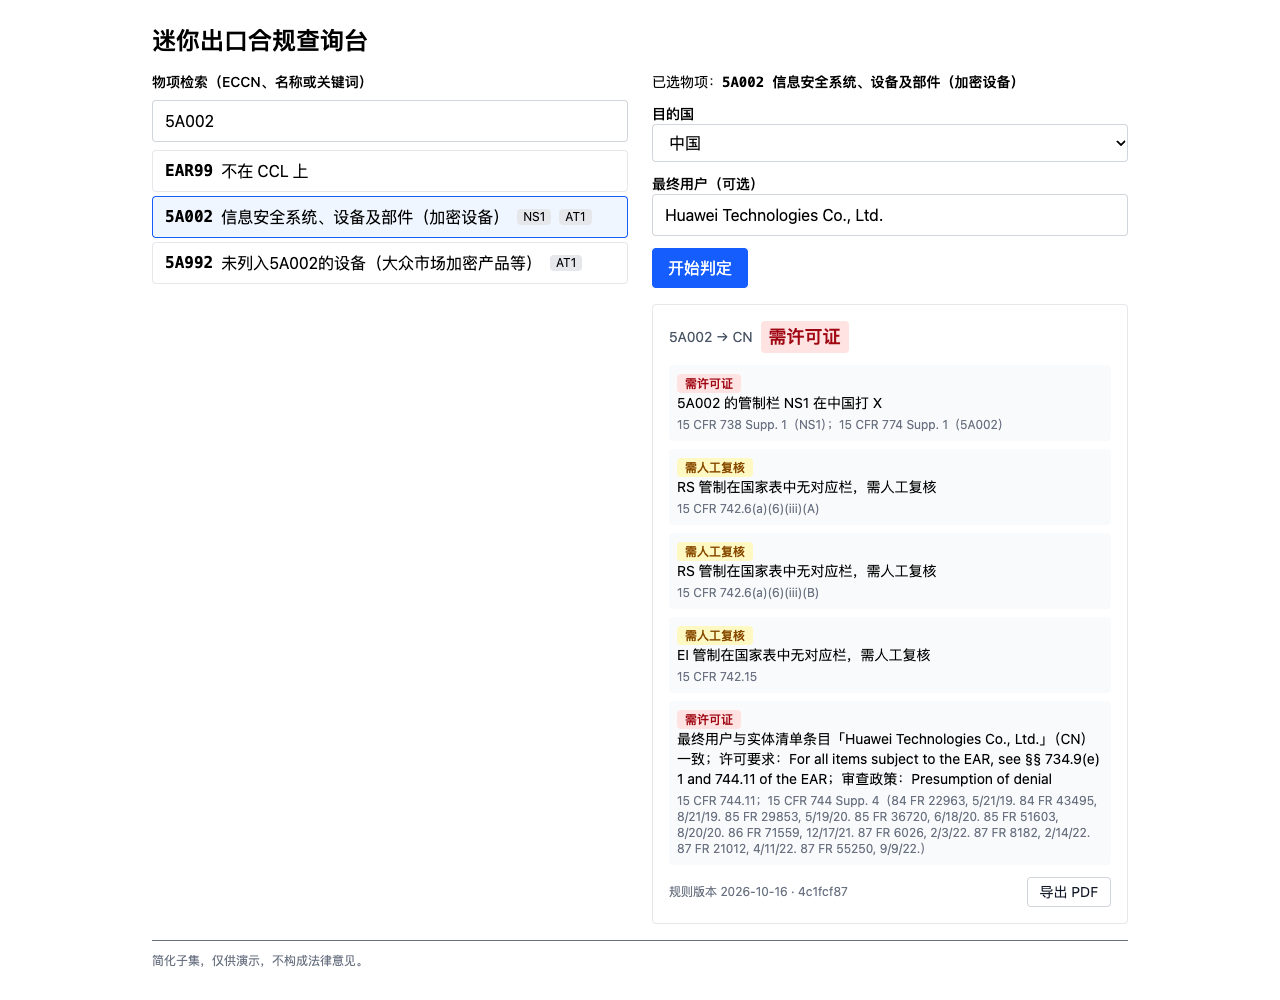
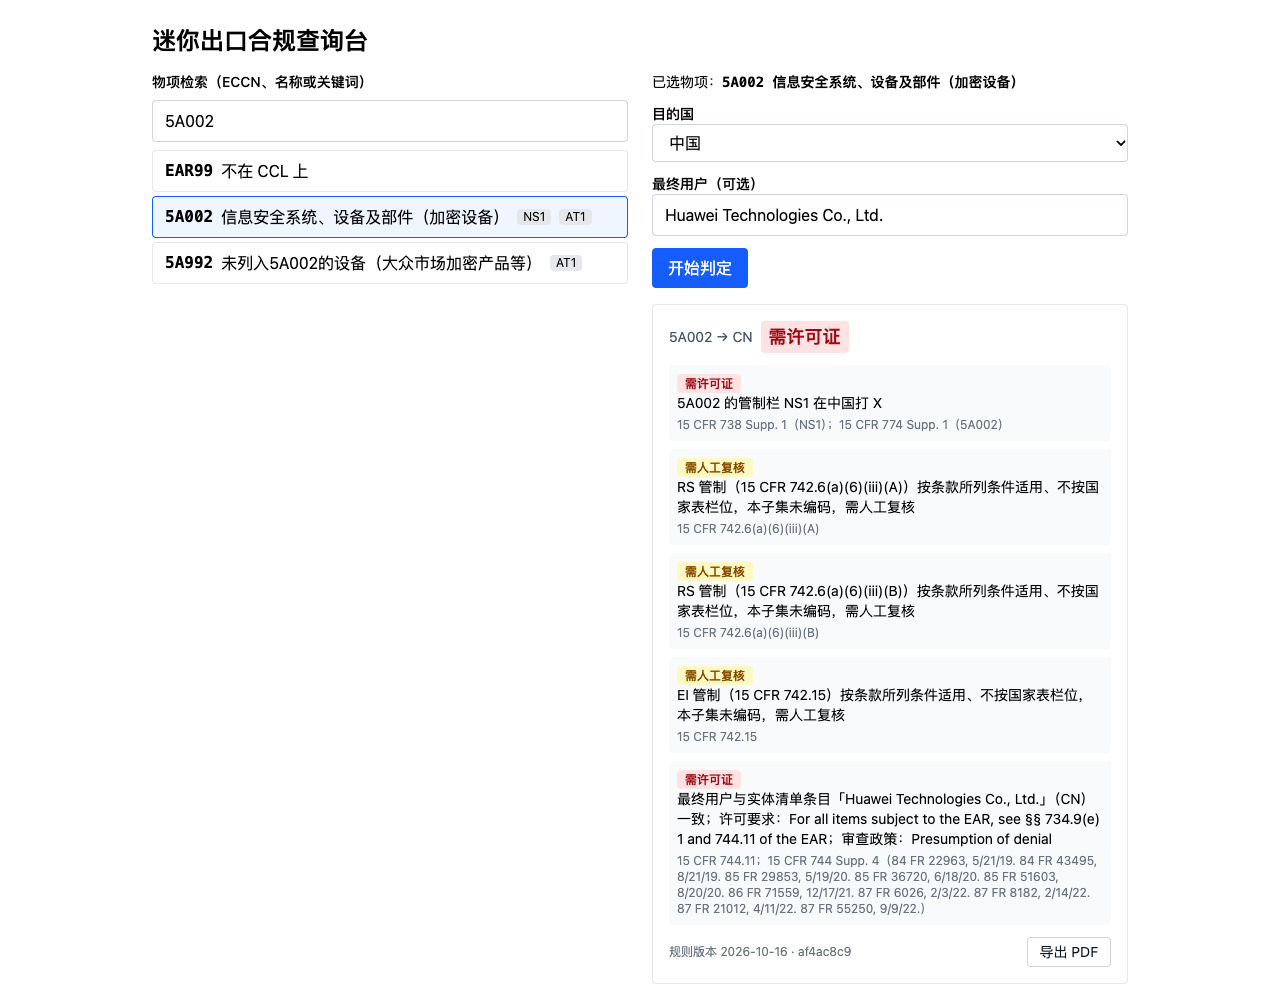
chore: cleanup template leftovers, safer download, README fixes

Changed region(s): [[0.5, 0.465, 0.875, 0.961], [0.125, 0.93, 0.2812, 0.961], [0.8125, 0.93, 0.875, 0.961]]

diff --git a/frontend/src/components/CheckForm.tsx b/frontend/src/components/CheckForm.tsx
@@ -59,7 +59,7 @@ export function CheckForm(props: { item: Item | null; onResult: (r: CheckResult)
           onChange={(e) => setCountry(e.target.value)}
           className="w-full rounded border border-gray-300 px-3 py-2"
         >
-          <option value="">请选择国家</option>
+          <option value="">请选择国家/地区</option>
           {countries.map((c) => (
             <option key={c.code} value={c.code}>
               {c.name_zh}

diff --git a/frontend/src/api.ts b/frontend/src/api.ts
@@ -46,5 +46,5 @@ export async function downloadReport(req: CheckRequest): Promise<void> {
   a.href = url;
   a.download = name ?? "report.pdf";
   a.click();
-  URL.revokeObjectURL(url);
+  setTimeout(() => URL.revokeObjectURL(url), 1000);
 }

diff --git a/README.md b/README.md
@@ -30,14 +30,14 @@ docker compose up --build
 
 ## 判定逻辑
 
-每次判定按固定顺序走四步，**触发的步骤都会留下依据，包括未命中**：国家表总会留依据；禁运、特殊管制、实体清单只在触发时留（目的国禁运；物项带特殊管制；填了最终用户）。唯一的省略情形见下，最终结论取所有依据中最严的一档。
+每次判定按固定顺序走四步，**触发的步骤都会留下依据，包括未命中**：国家表除下述情形外都会留依据；禁运、特殊管制、实体清单只在触发时留（目的国禁运；物项带特殊管制；填了最终用户）。唯一的省略情形见下，最终结论取所有依据中最严的一档。
 
 | 步骤 | 条件 | 依据结论 |
 |---|---|---|
 | 1 禁运 | 目的国在禁运名单（古巴、伊朗、朝鲜、叙利亚、俄罗斯、白俄罗斯等） | 需许可证 |
 | 2 国家表 | ECCN 的管制栏在目的国打 X（每个命中栏一条）；否则一条「未命中」（物项有管制栏、目的国禁运时省略，见下）；EAR99 直接无需许可证 | 需许可证 / 无需许可证 |
-| 3 特殊管制 | ECCN 带有国家表里没有对应栏的管制（RS 的部分情形、EI 等），每项一条 | 需人工复核 |
-| 4 实体清单 | 填了最终用户才执行：规范化后完全一致 → 需许可证；相似度 ≥ 0.85 或名称部分重合 → 需人工复核；其他 → 无需许可证 | 三档皆可 |
+| 3 特殊管制 | ECCN 带有按条款条件适用、不按国家表栏位的管制（RS 的部分情形、EI 等，本子集未编码），每项一条 | 需人工复核 |
+| 4 实体清单 | 填了最终用户才执行：只比对英文部分：完全一致 → 需许可证；相似度 ≥ 0.85 或名称部分重合 → 需人工复核；不含英文字母或数字（纯中文名、仅「Co., Ltd.」）→ 需人工复核；其他 → 无需许可证 | 三档皆可 |
 
 ```mermaid
 flowchart LR
@@ -51,7 +51,7 @@ flowchart LR
     F -->|否则| I[无需许可证]
 ```
 
-三档严重度：需许可证 > 需人工复核 > 无需许可证。唯一的省略：物项有国家表管制栏（不是 EAR99，`controls` 非空）、目的国禁运、且这些栏在该国都没打 X 时，不写国家表依据行，因为禁运那条已经决定了结论。其余情形照常写：命中（含俄罗斯、白俄罗斯）、EAR99 的「不受国家表管制」、无管制栏 ECCN（3A999、5A980）的「无国家表管制栏」。古巴、伊朗、朝鲜、叙利亚的国家表行本身为空（`x_columns` 为空），eCFR 改由 Part 746 管制，所以对它们的有管制栏物项必然落入省略；俄罗斯、白俄罗斯的行有 X 栏，只有未命中才省略。
+三档严重度：需许可证 > 需人工复核 > 无需许可证。唯一的省略：物项有国家表管制栏、目的国禁运、且这些栏在该国都没打 X 时，不写国家表依据行，因为禁运那条已经决定了结论。古巴、伊朗、朝鲜、叙利亚的国家表行本身为空（eCFR 改由 Part 746 管制），所以对它们的有管制栏物项必然省略；俄罗斯、白俄罗斯的行有 X 栏，只有未命中才省略。
 
 ## 数据来源与版本
 
@@ -62,12 +62,12 @@ flowchart LR
 - [15 CFR 744 Supp. 4（实体清单）](https://www.ecfr.gov/current/title-15/subtitle-B/chapter-VII/subchapter-C/part-744/appendix-Supplement%20No.%204%20to%20Part%20744)
 - [15 CFR 746（禁运与特别管制）](https://www.ecfr.gov/current/title-15/subtitle-B/chapter-VII/subchapter-C/part-746)
 
-规模：64 个 ECCN（第 3、4、5 类）、28 个国家、40 条实体清单记录。香港未收录——eCFR 国家表没有单独的香港行。
+规模：64 个 ECCN（第 3、4、5 类）、28 个国家/地区（台湾在界面中显示为中国台湾）、40 条实体清单记录。香港未收录——eCFR 国家表没有单独的香港行；自 2020 年起 EAR 对香港按中国处理，请选择中国。
 
 两个版本标识：
 
 - `meta.version`：人读的规则集版本（整理日期），数据变更时手动更新，位于 `backend/data/meta.json`（另有 `ecfr_issue_date`）。
-- `ruleset_digest`：启动时对三个数据文件（`ccl.json`、`country_chart.json`、`entity_list.json`）的原始字节算 sha256，取前 8 位十六进制。改了数据却忘了改版本号时，digest 仍会变，报告可复现性不会悄悄失真。
+- `ruleset_digest`：启动时对三个数据文件（`ccl.json`、`country_chart.json`、`entity_list.json`）的原始字节加上规则引擎源码 `rules.py` 算 sha256，取前 8 位十六进制。改了数据或判定逻辑却忘了改版本号时，digest 仍会变，报告可复现性不会悄悄失真。
 
 ## 设计决策
 
@@ -87,16 +87,16 @@ flowchart LR
 
 ### 3. 判定轨迹：触发的步骤都留依据，包括未命中
 
-- **做了什么**：每个触发的步骤产出 `Finding`（规则、结论、中文说明、条款出处）：国家表总有；禁运、特殊管制、实体清单仅在触发时有；实体清单一旦触发，命中或未命中都写一条（国家表的唯一省略情形见判定逻辑）。
+- **做了什么**：每个触发的步骤产出 `Finding`（规则、结论、中文说明、条款出处）：国家表除唯一省略情形外都有；禁运、特殊管制、实体清单仅在触发时有；实体清单一旦触发，命中或未命中都写一条（国家表的唯一省略情形见判定逻辑）。
 - **为什么**：一份「无需许可证」的结论只有在能看出查过什么、查到什么时才可信；它同时就是 PDF 里的依据表，也方便写测试断言。
 - **代价**：结果比只给结论啰嗦；有的 ECCN 会出现多条依据。
 - **何时升级**：依据变多时前端按步骤折叠分组。
 
 ### 4. 后端生成 PDF，报告编号由输入和规则集决定
 
-- **做了什么**：`POST /api/report` 用 Jinja2 + WeasyPrint 在服务端出 PDF。报告编号 = `sha256(json(规范化输入) + digest)` 的前 12 位十六进制，不含生成时间。
-- **为什么**：HTML/CSS 排版比坐标绘图好维护，中文字体由镜像统一提供，不依赖用户浏览器；同输入 + 同规则得到同一编号，可以拿编号核对报告是否对应同一次判定。
-- **代价**：镜像需装 pango 与 `fonts-noto-cjk`，体积变大；macOS 本地开发要 `brew install pango`。
+- **做了什么**：`POST /api/report` 用 Jinja2 + WeasyPrint 在服务端出 PDF。报告编号 = `sha256(json(规范化输入) + digest)` 的前 12 位十六进制，不含生成时间；digest = 三个数据文件 + 规则引擎源码 `rules.py`。
+- **为什么**：HTML/CSS 排版比坐标绘图好维护，中文字体由镜像统一提供，不依赖用户浏览器；同输入 + 同数据 + 同引擎得到同一编号，可以拿编号核对报告是否对应同一次判定。
+- **代价**：digest 把 `rules.py` 源码也算进去，所以改它哪怕只改一行注释，报告编号都会变；镜像需装 pango 与 `fonts-noto-cjk`，体积变大；macOS 本地开发要 `brew install pango`。
 - **何时升级**：并发量大时把 PDF 渲染放进队列；需要编号可追溯到具体一次查询时，才需要存储。
 
 ### 5. 无数据库
@@ -122,10 +122,10 @@ flowchart LR
 
 ### 8. 实体匹配：0.85 阈值 + 部分重合兜底
 
-- **做了什么**：名称先规范化（casefold、去标点、去 Co/Ltd/Inc 等公司后缀）；完全一致 → 需许可证；`difflib.SequenceMatcher` 相似度 ≥ 0.85 → 需人工复核；否则做包含兜底（较短一方 ≥ 4 个字符且是较长一方的子串）→ 需人工复核；都不中 → 无需许可证。只比对英文名称与别名。
+- **做了什么**：名称先规范化（casefold、去标点、去 Co/Ltd/Inc 等公司后缀），再只保留英文字母和数字比对；不含任何英文字母或数字的名称（纯中文、仅「Co., Ltd.」）无法筛查，直接需人工复核；完全一致 → 需许可证；`difflib.SequenceMatcher` 相似度 ≥ 0.85 → 需人工复核；否则做包含兜底（较短一方 ≥ 4 个字符且是较长一方的子串）→ 需人工复核；都不中 → 无需许可证。中英混写按其英文部分比对。
 - **为什么**：先上无依赖的标准库方案。0.85 是经验值，基于字符序列。兜底是实测后加的：真实的 Huawei 条目没有单独的 "Huawei" 别名，只输入 "Huawei" 时相似度很低，会被判为未命中，这在合规场景不可接受。
-- **代价**：阈值没有标注集校准，会有误报和漏报；中文名、中英混写不匹配；包含兜底会让常见词产生多余的复核。
-- **何时升级**：换 rapidfuzz 的 `token_set_ratio`，建一个人工标注集来调阈值，并加入中文名与别名。
+- **代价**：阈值没有标注集校准，会有误报和漏报；纯中文名只能送人工复核，筛不了；包含兜底会让常见词产生多余的复核。
+- **何时升级**：换 rapidfuzz 的 `token_set_ratio`，建一个人工标注集来调阈值，并加入中文名与别名，纯中文名才能真正筛查。
 
 ## 已知简化与下一步
 
@@ -134,10 +134,10 @@ flowchart LR
 实现上的取舍：
 
 - 任何禁运都按「需许可证」处理，包括俄罗斯、白俄罗斯的 `15 CFR 746.8`。746.8 对 EAR99 物项并非一概禁止，这里刻意偏保守。
-- `special_controls` 里依赖目的地的管制（RS/NS/NP 对 Country Group D:1/D:4/D:5、SL、EI 等）没有编码，一律给「需人工复核」。
+- `special_controls` 里依赖目的地的管制（RS/NS/NP 对 Country Group D:1/D:4/D:5、SL、EI 等，按条款条件适用、不按国家表栏位）没有编码，一律给「需人工复核」。
 - 管制按整个 ECCN 记录，不细分到子段落（例如 `.z`）。
-- 中文或中英混写的最终用户名称不会被匹配。
-- 香港不在国家表子集内。
+- 实体清单只有英文名称：纯中文最终用户无法筛查，会被送人工复核；中英混写只比对英文部分。
+- 香港不在国家表子集内（EAR 自 2020 年起按中国处理，请选中国）。
 
 ## 本地开发
 
@@ -169,7 +169,7 @@ npm run build    # tsc -b && vite build
 ```
 backend/app/      main.py（API）· rules.py（判定）· report.py + templates/（PDF）
 backend/data/     ccl.json · country_chart.json · entity_list.json · meta.json
-backend/tests/    test_rules.py · test_api.py
+backend/tests/    test_data.py · test_rules.py · test_api.py · test_report.py
 frontend/src/     App.tsx · components/（ItemSearch · CheckForm · ResultCard）· api.ts · types.ts
 Dockerfile · docker-compose.yml · .github/workflows/ci.yml
 ```
